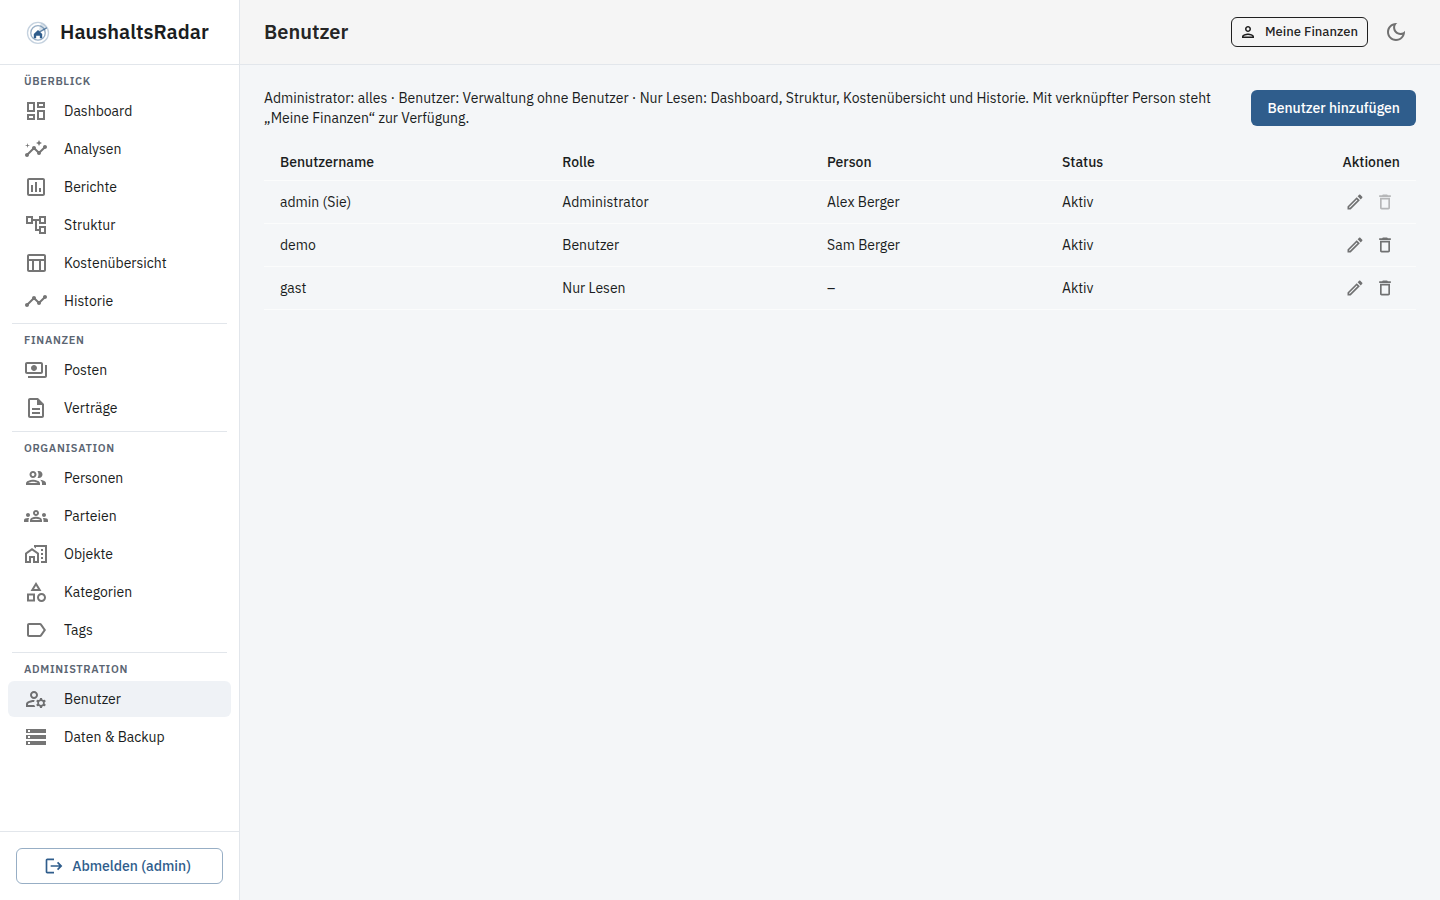
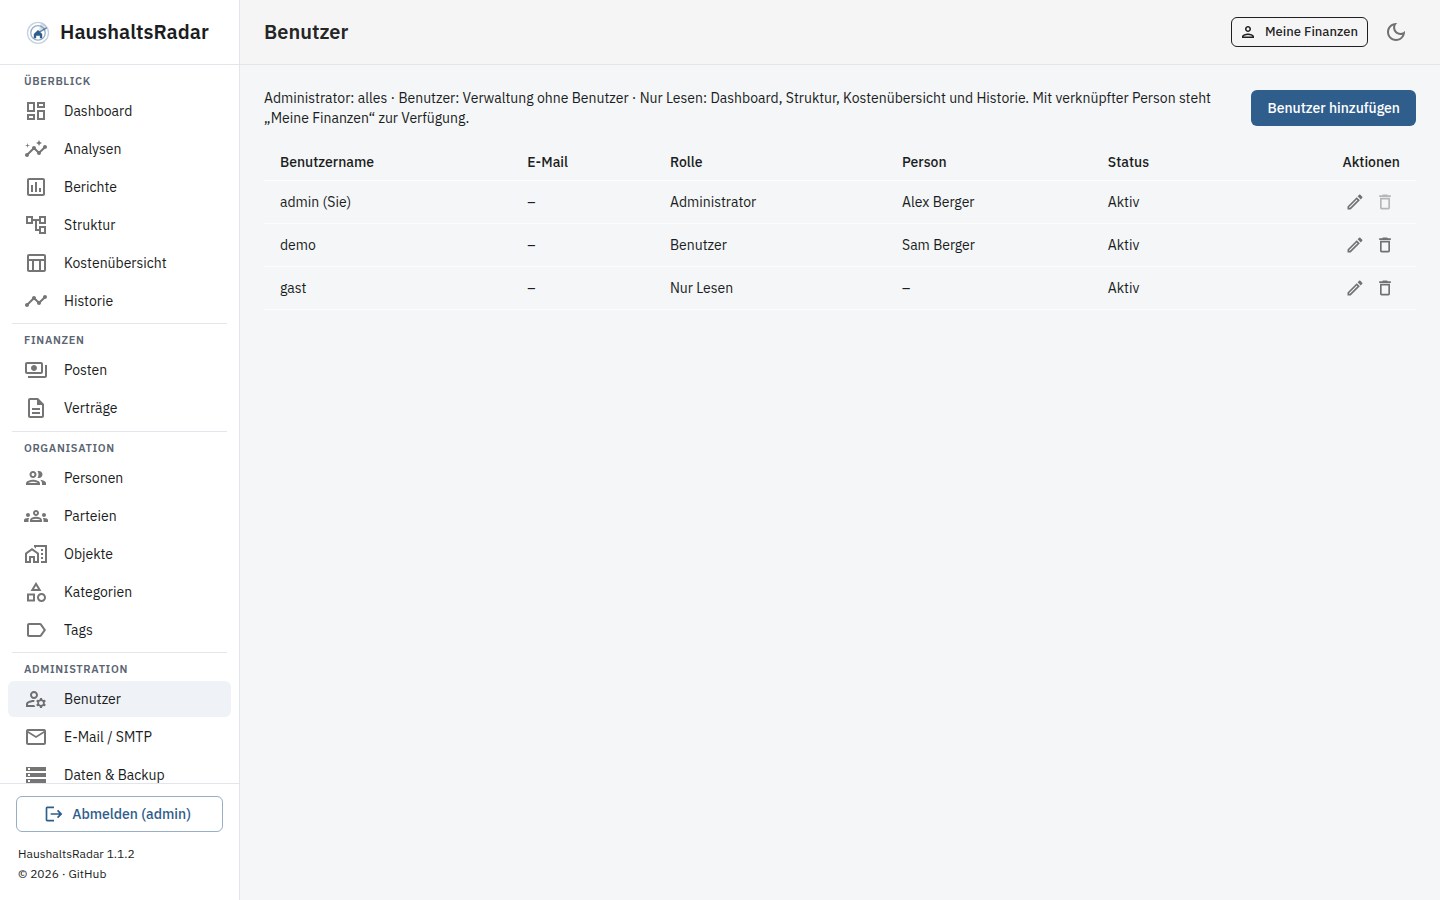
Refresh documentation screenshots for the current v1.1.2 UI.
Capture fictional demo data with SMTP menu, version footer, contract terms, and README light/dark dashboards so guides match the live app.

diff --git a/README.md b/README.md
@@ -4,7 +4,9 @@ Selbst gehostete Web-App für **Fixkosten, Verträge und wiederkehrende Ausgaben
 
 HaushaltsRadar ist **kein** klassisches Haushaltsbuch und **keine** Banking-Software. Es modelliert Fixkosten, Abos, Versicherungen und ähnliche Positionen, verteilt sie auf Personen/Parteien und macht sie über Dashboards und Diagramme nachvollziehbar.
 
-![Dashboard](docs/screenshots/01-dashboard.png)
+![Dashboard (Hell)](docs/screenshots/01-dashboard.png)
+
+![Dashboard (Dunkel)](docs/screenshots/01-dashboard-dark.png)
 
 *Screenshots zeigen fiktive Demo-Daten (`docs/demo/screenshot-demo-data.json`), keine Echtdaten.*
 

diff --git a/docs/guides/ADMIN.md b/docs/guides/ADMIN.md
@@ -60,6 +60,8 @@ Es muss immer mindestens ein aktiver Admin existieren; die App verhindert das De
 
 Pfad: **Administration → E-Mail / SMTP**
 
+![E-Mail / SMTP](../screenshots/guides/admin-smtp.png)
+
 - SMTP aktivieren, Host/Port/TLS, Absender und **Default-E-Mail (CC)** setzen
 - Themen einzeln schalten: Kündigungsfrist, Vertragsende, Vertragsbeginn, Preisänderung, Einmalzahlung, Fälligkeiten
 - Erinnerungstage vor Stichtag (Standard `30,14,7,1`) für alle aktivierten Themen
